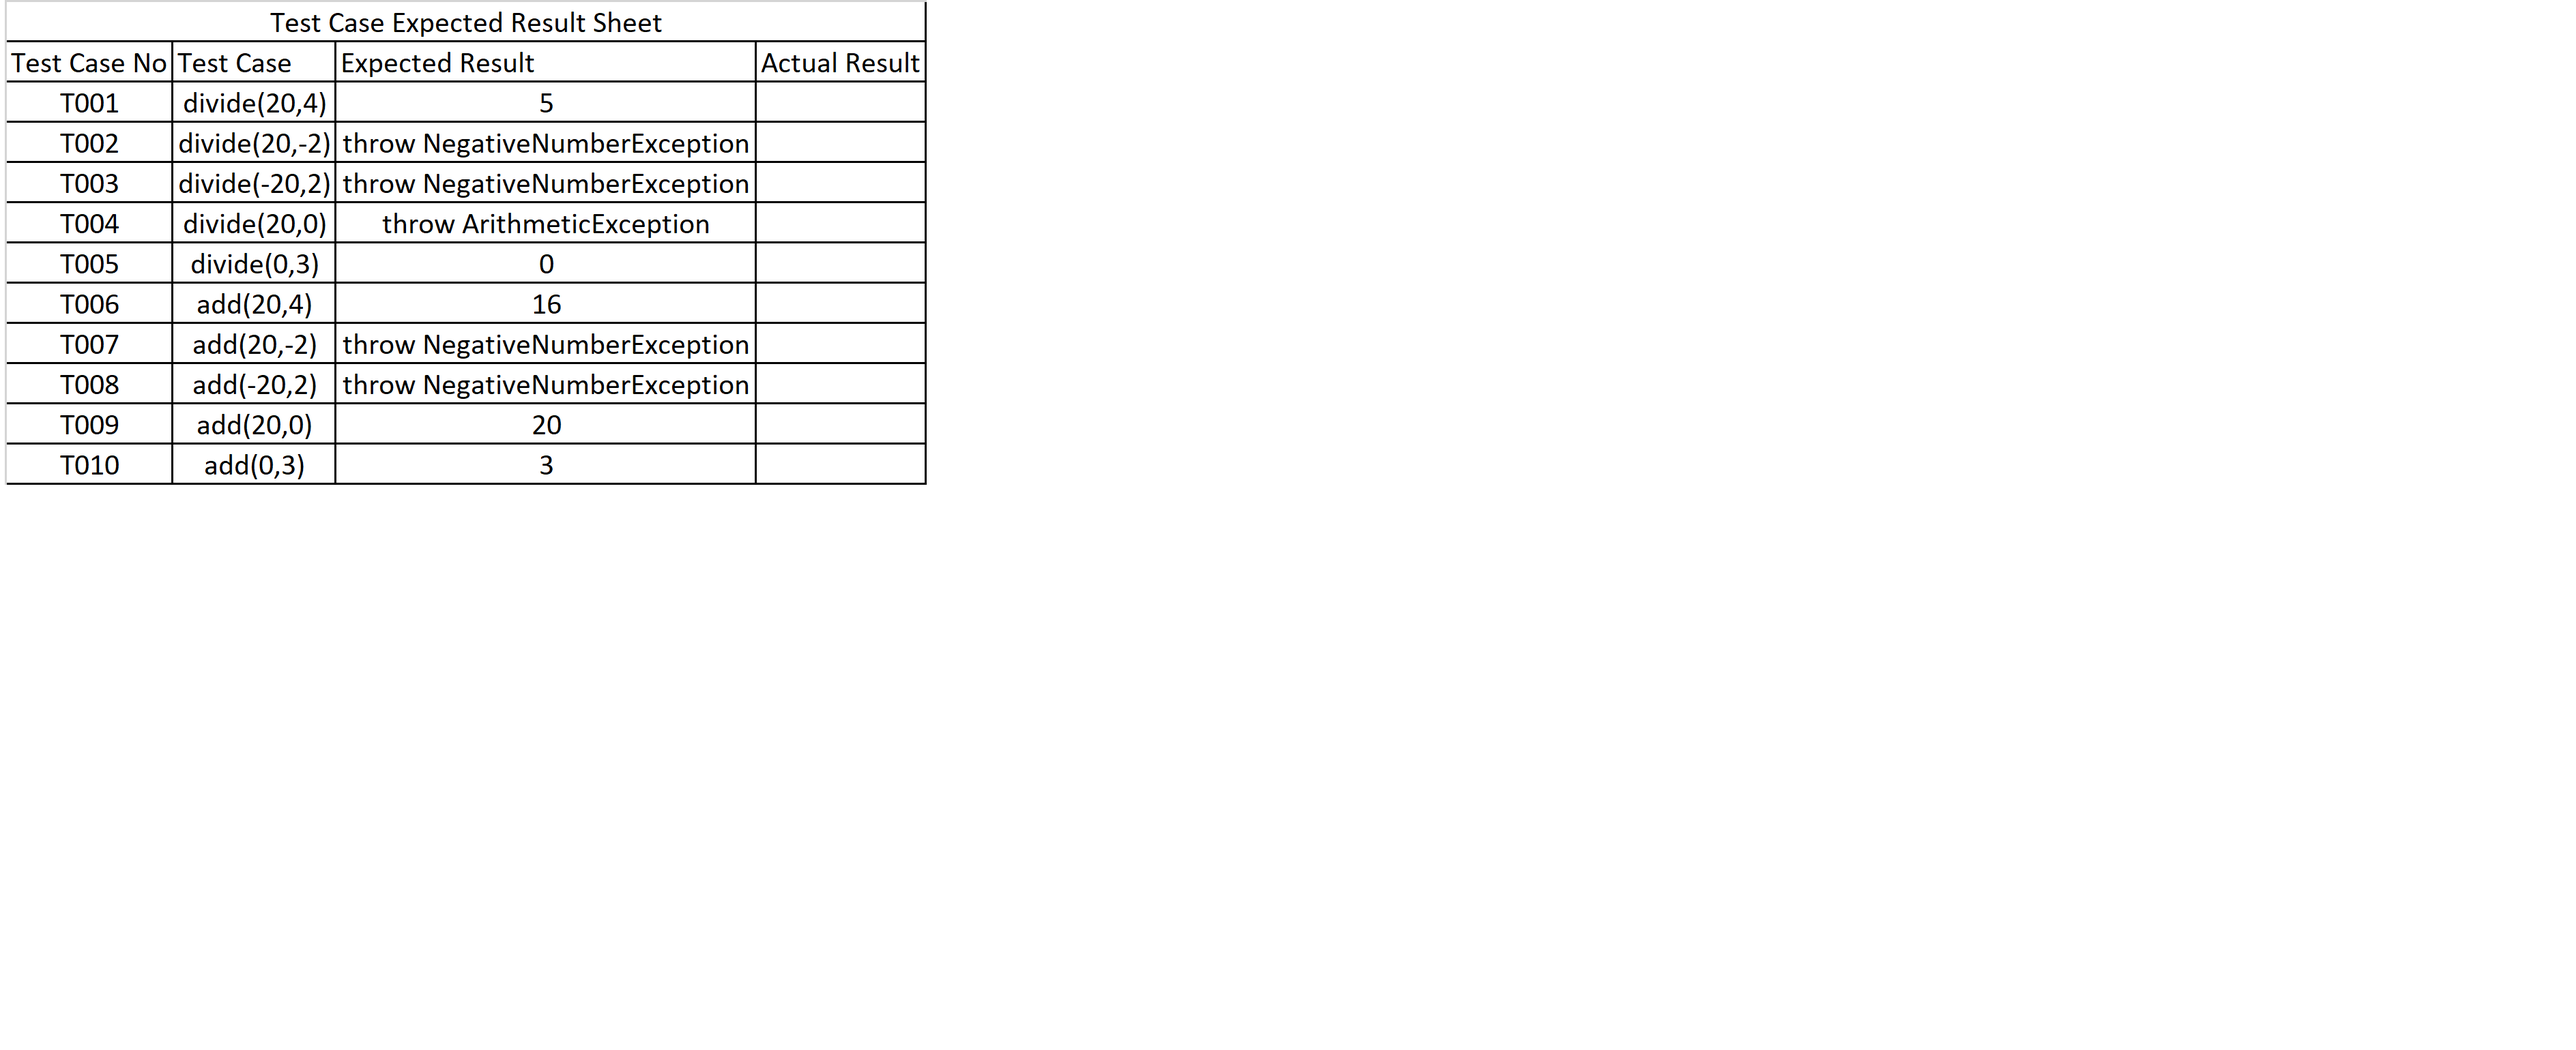
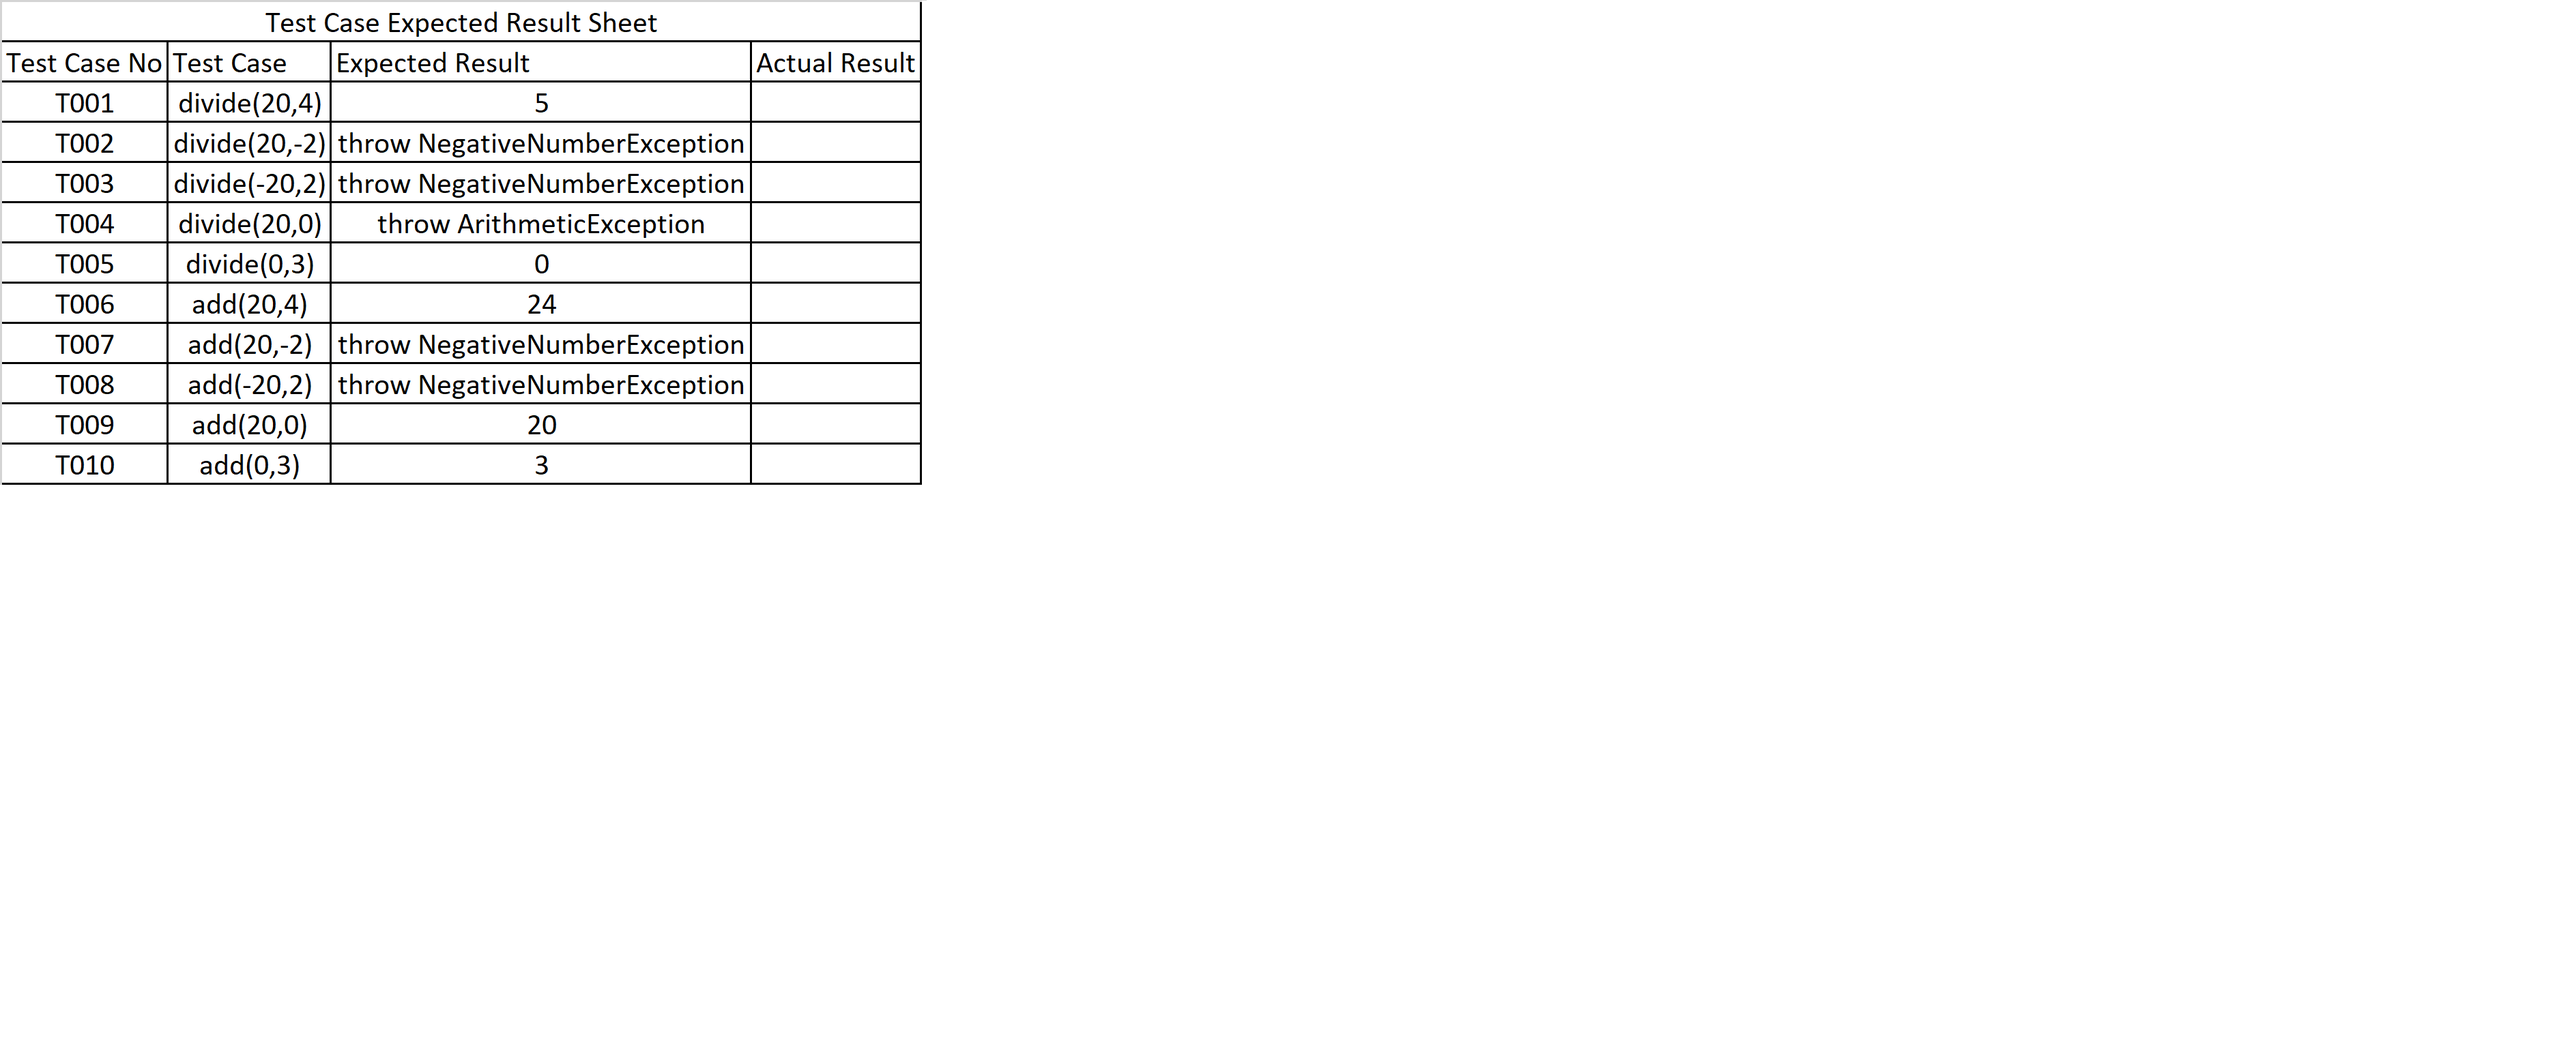
Add files via upload

Changed region(s): [[0.0, 0.0, 0.3099, 0.4675], [0.2789, 0.0312, 0.3719, 0.0935]]

diff --git a/Day5/MyFirstJunitDemoProject/src/com/sujata/test/TestCalculator.java b/Day5/MyFirstJunitDemoProject/src/com/sujata/test/TestCalculator.java
@@ -8,50 +8,102 @@ import static org.junit.jupiter.api.Assertions.*;
 
 import org.junit.jupiter.api.AfterEach;
 import org.junit.jupiter.api.BeforeEach;
+import org.junit.jupiter.api.Disabled;
+import org.junit.jupiter.api.DisplayName;
+import org.junit.jupiter.api.Nested;
 import org.junit.jupiter.api.Test;
+import org.junit.jupiter.api.condition.EnabledOnOs;
+import org.junit.jupiter.api.condition.OS;
 
 import com.sujata.demo.Calculator;
 import com.sujata.exception.NegativeNumberException;
 
+@DisplayName("testing calculator class method")
 class TestCalculator {
 
 	private Calculator calculator;
-	
+
 	@BeforeEach
 	void setUp() throws Exception {
-		calculator=new Calculator();
+		calculator = new Calculator();
 	}
 
 	@AfterEach
 	void tearDown() throws Exception {
-		calculator=null;
+		calculator = null;
 	}
 
-	@Test
-	void t001()throws NegativeNumberException {
-		assertEquals(5, calculator.divide(20, 4));
+	@DisplayName("test cases for divide method")
+	@Nested
+	class TestDivideMethod {
+		@DisplayName("Testing divide for 20 and 4")
+		@Test
+		void t001() throws NegativeNumberException {
+			assertEquals(5, calculator.divide(20, 4));
+		}
+
+		@DisplayName("Testing divide for 20 and -2")
+		@Test
+		void t002() throws NegativeNumberException {
+			assertThrows(NegativeNumberException.class, () -> calculator.divide(20, -2));
+		}
+
+		@DisplayName("Testing divide for -20 and 2")
+		@Test
+		@EnabledOnOs({OS.LINUX})
+		void t003() throws NegativeNumberException {
+			assertThrows(NegativeNumberException.class, () -> calculator.divide(-20, 2));
+		}
+
+		@DisplayName("Testing divide for 20 and 0")
+		@Test
+		@EnabledOnOs({OS.WINDOWS,OS.LINUX,OS.SOLARIS})
+		void t004() throws NegativeNumberException {
+			assertThrows(ArithmeticException.class, () -> calculator.divide(20, 0));
+		}
+
+		@DisplayName("Testing divide for 0 and 3")
+		@Test
+		@EnabledOnOs({OS.WINDOWS})
+		void t005() throws NegativeNumberException {
+			assertEquals(0, calculator.divide(0, 3));
+		}
 	}
 
-	@Test
-	void t002()throws NegativeNumberException {
-		assertThrows(NegativeNumberException.class,()->calculator.divide(20, -2));
+	@DisplayName("test cases for add method")
+	@Nested
+	class TestAddMethod {
+
+		@DisplayName("Testing add for 20 and 4")
+		@Test
+		void t006() throws NegativeNumberException {
+			assertEquals(24, calculator.add(20, 4));
+		}
+
+		@DisplayName("Testing add for 20 and -2")
+		@Test
+		@Disabled
+		void t007() throws NegativeNumberException {
+			assertThrows(NegativeNumberException.class, () -> calculator.add(20, -2));
+		}
+
+		@DisplayName("Testing add for -20 and 2")
+		@Test
+		void t008() throws NegativeNumberException {
+			assertThrows(NegativeNumberException.class, () -> calculator.add(-20, 2));
+		}
+
+		@DisplayName("Testing add for 20 and 0")
+		@Test
+		void t009() throws NegativeNumberException {
+			assertEquals(20, calculator.add(20, 0));
+		}
+
+		@DisplayName("Testing add for 0 and 3")
+		@Test
+		void t010() throws NegativeNumberException {
+			assertEquals(3, calculator.add(0, 3));
+		}
 	}
-	
-	@Test
-	void t003()throws NegativeNumberException {
-		assertThrows(NegativeNumberException.class,()->calculator.divide(-20, 2));
-	}
-	
-	@Test
-	void t004()throws NegativeNumberException {
-		assertThrows(ArithmeticException.class,()->calculator.divide(20, 0));
-	}
-	
-	@Test
-	void t005()throws NegativeNumberException {
-		assertEquals(0, calculator.divide(0, 3));
-	}
-	
-	
 
 }

diff --git a/Day5/MyFirstJunitDemoProject/src/com/sujata/demo/Calculator.java b/Day5/MyFirstJunitDemoProject/src/com/sujata/demo/Calculator.java
@@ -13,7 +13,10 @@ public class Calculator {
 	}
 	
 	//should add positive intergers
-	public int add(int number1,int number2) {
-		return -1;
+	public int add(int number1,int number2)throws NegativeNumberException {
+		if(number1>=0 && number2>=0)
+			return number1+number2;
+		else
+			throw new NegativeNumberException("Negative Number Not Allowed");
 	}
 }
